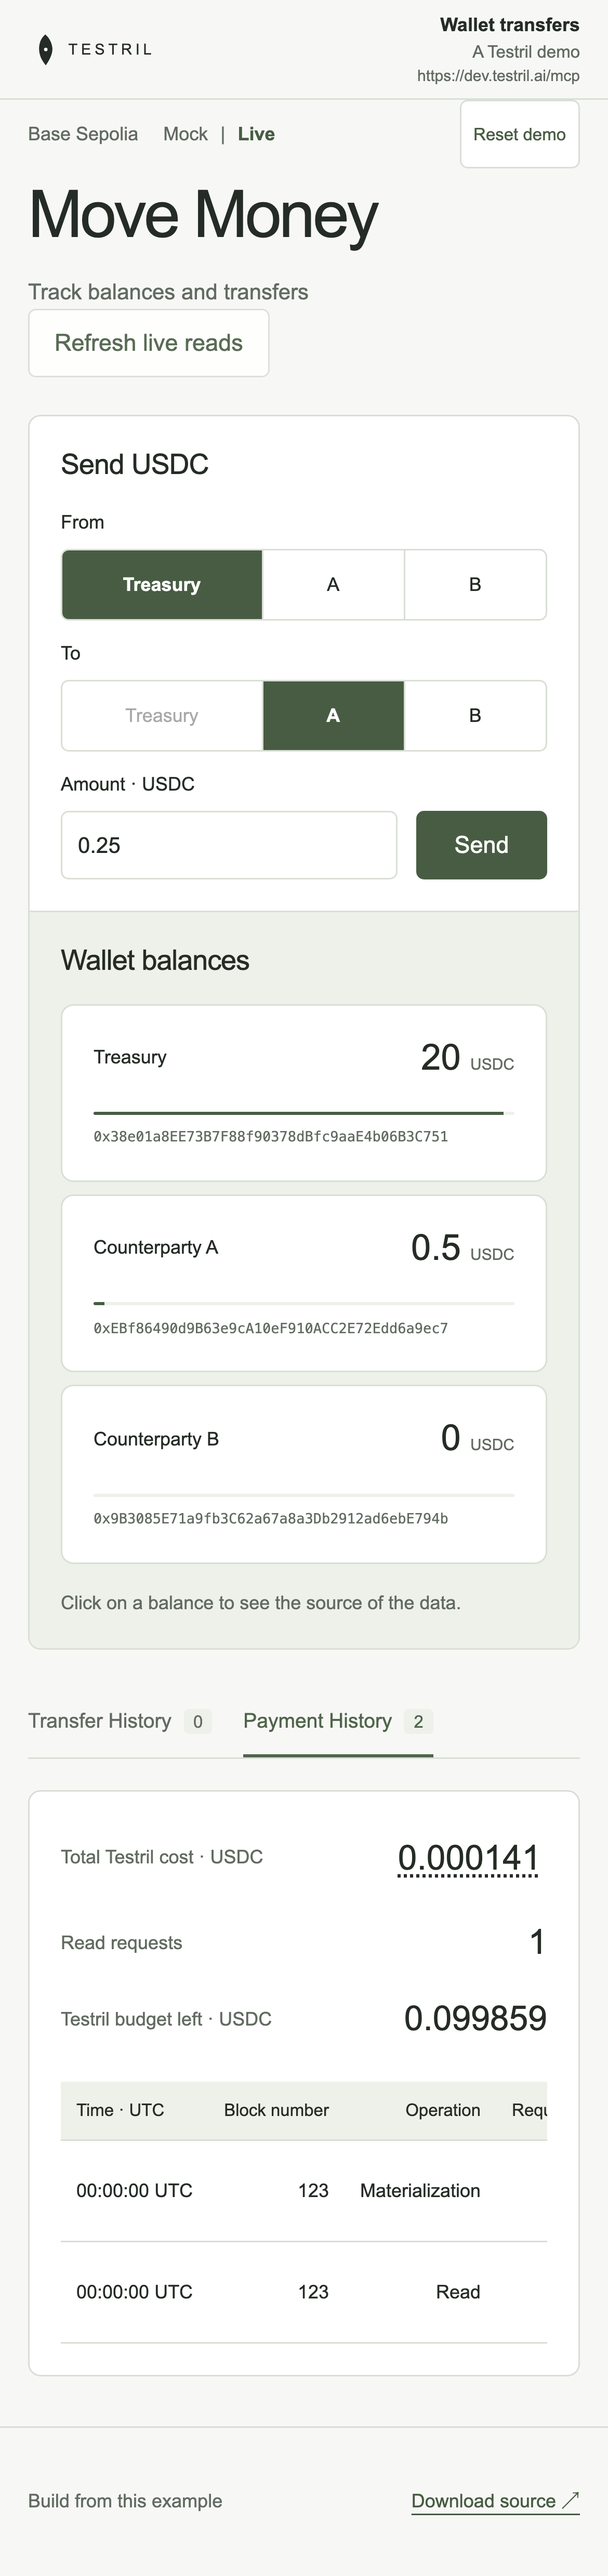
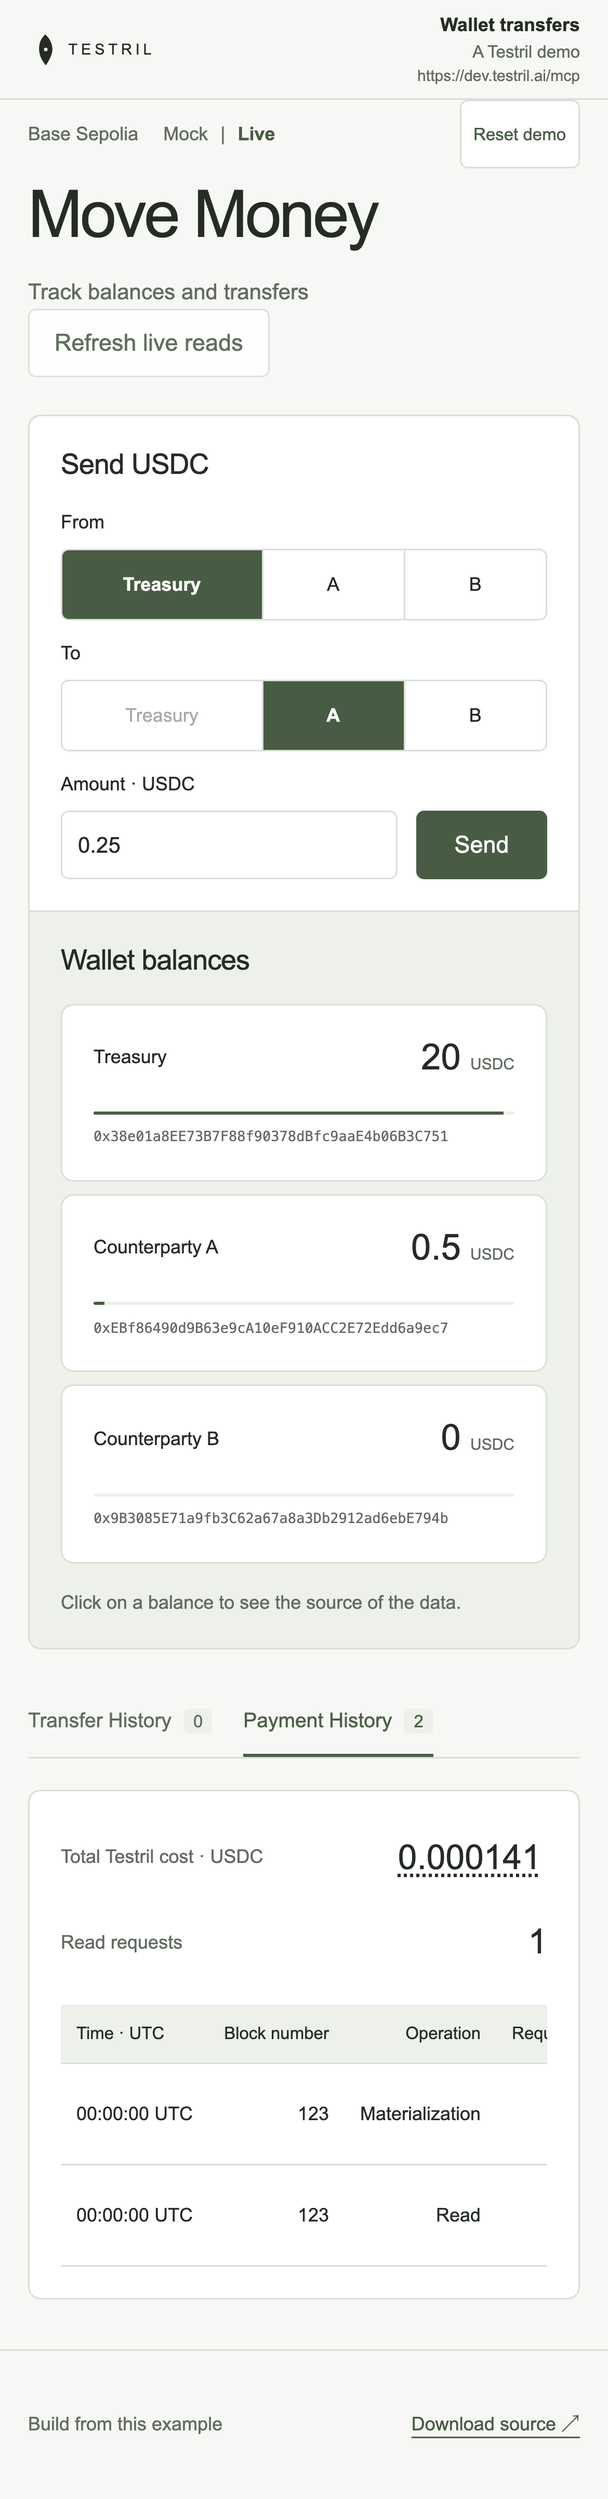
Remove remaining payment budget from the interface

diff --git a/demos/treasury-analysis/public/app.js b/demos/treasury-analysis/public/app.js
@@ -120,9 +120,6 @@ function renderState() {
   $("cost-label").textContent = live
     ? "Total Testril cost · USDC"
     : "Total read cost · USDC";
-  $("budget-label").textContent = live
-    ? "Testril budget left · USDC"
-    : "Payment wallet left · USDC";
   $("operation-label").textContent = live ? "Operation" : "Read";
   $("reset-note").textContent = live
     ? "Reset returns the demo funds to Treasury. Payments, escrow, and spending caps remain."
@@ -185,7 +182,6 @@ function renderState() {
         : `Balance reads: ${feeAmount(balanceCost.toString())} USDC\nTransfer history reads: ${feeAmount(historyCost.toString())} USDC\nMock rates`,
     ),
   );
-  $("payment-left").textContent = feeAmount(state.payment.remainingRaw);
   $("read-count").textContent = state.payment.requestCount;
   $("receipt-rows").replaceChildren(
     ...state.receipts.map((receipt) => {

diff --git a/demos/treasury-analysis/public/index.html b/demos/treasury-analysis/public/index.html
@@ -172,10 +172,6 @@
               <div>
                 <span>Read requests</span><strong id="read-count">0</strong>
               </div>
-              <div>
-                <span id="budget-label">Payment wallet left · USDC</span
-                ><strong id="payment-left">0.010000</strong>
-              </div>
             </div>
             <div class="table-scroll">
               <table>

diff --git a/demos/treasury-analysis/public/style.css b/demos/treasury-analysis/public/style.css
@@ -581,7 +581,7 @@ dialog::backdrop {
 }
 .payment-grid {
   display: grid;
-  grid-template-columns: repeat(3, 1fr);
+  grid-template-columns: repeat(2, 1fr);
   gap: 20px;
   margin: 24px 0;
 }
